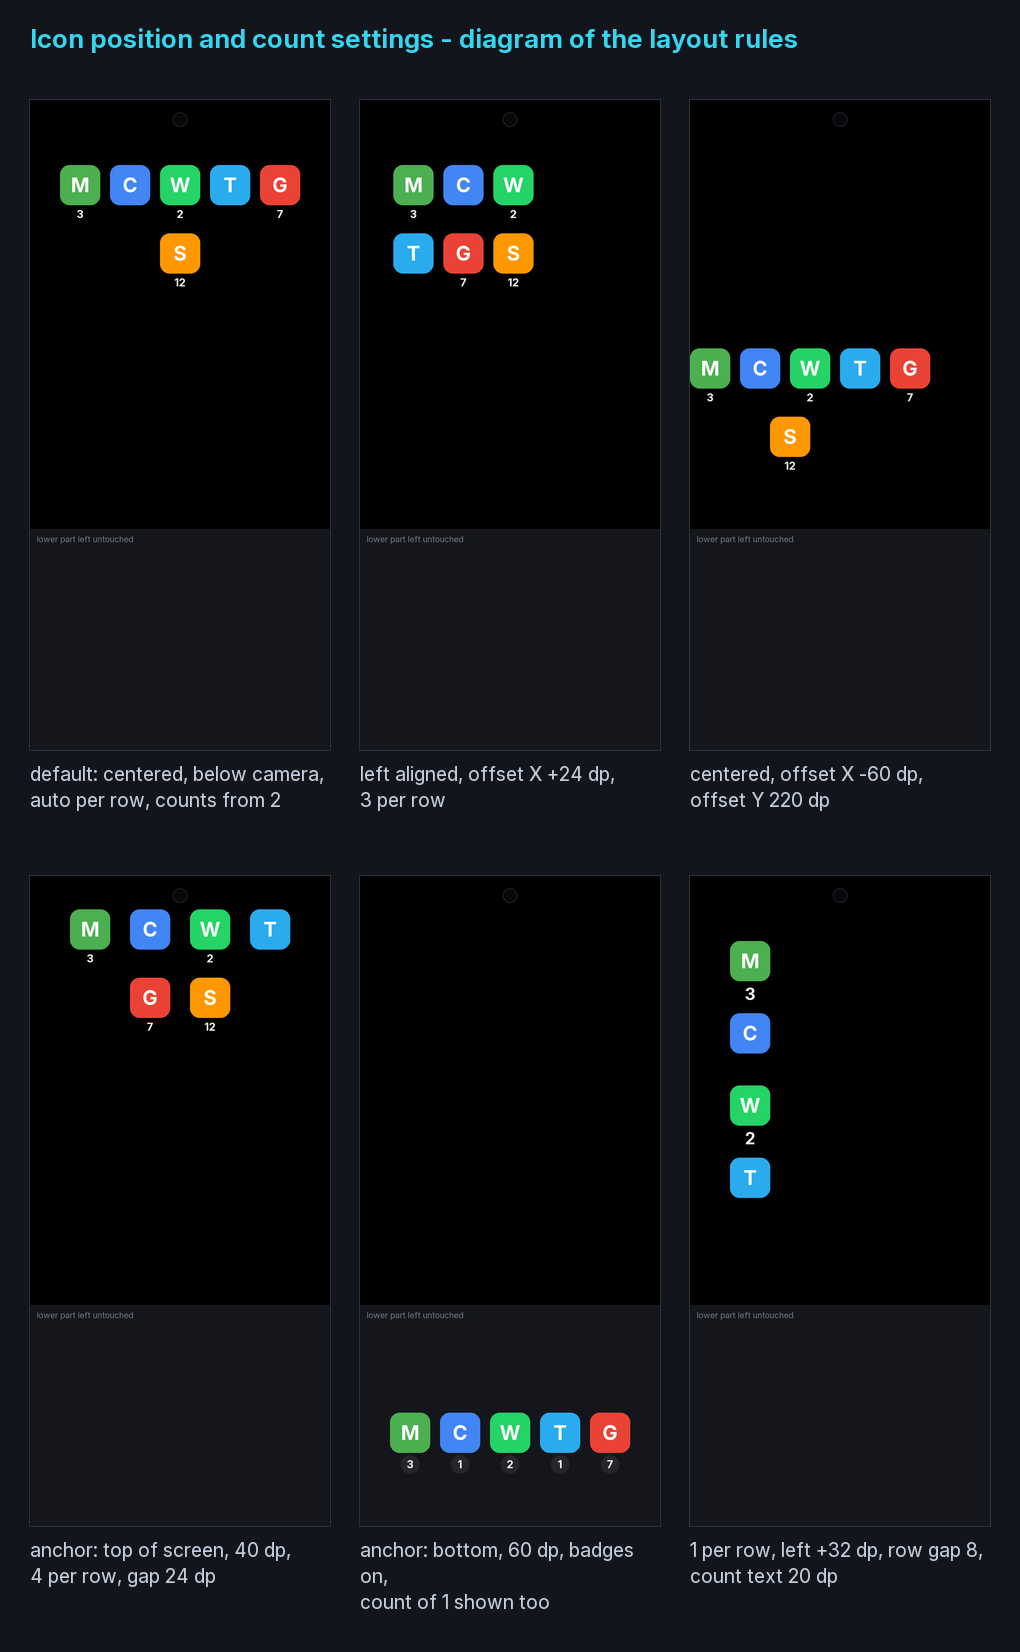
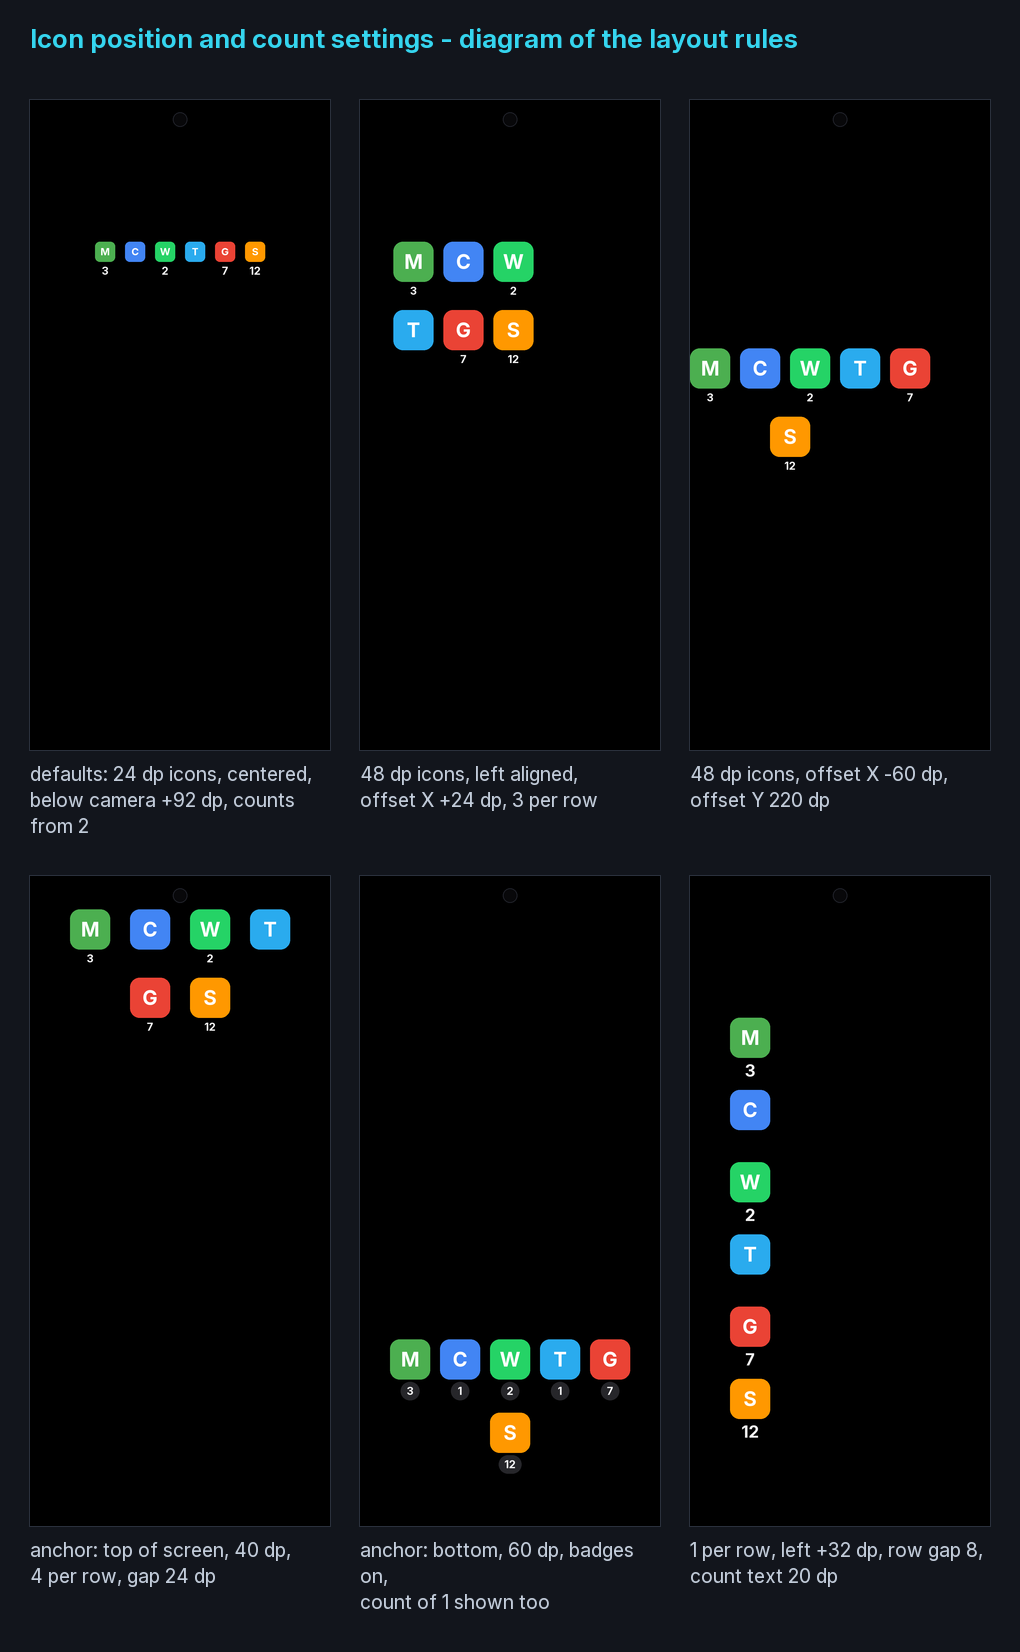
[AIassisted] restore the accessibility service after an update

diff --git a/app/src/main/java/com/zoffcc/applications/aod/Prefs.java b/app/src/main/java/com/zoffcc/applications/aod/Prefs.java
@@ -24,9 +24,10 @@ public final class Prefs
     public static final String RELIGHT_RELOCK = "relight_relock";   // light again after unlock + re-lock
     public static final String CANVAS_FALLBACK = "canvas_fallback"; // dim activity canvas, phones without AOD
     public static final String BLACKOUT_FULL = "blackout_full";     // also cover the bottom third
+    public static final String ACCESS_SEEN = "access_seen";         // service was enabled here once
 
     // ---- appearance -----------------------------------------------------
-    public static final String STYLE = "style";                     // ring | edge | dot
+    public static final String STYLE = "style";                     // ring | edge | dot | icons
     public static final String ANIM = "anim";                       // pulse | rotate | flash | steady
     public static final String ECO = "eco";                         // reduced frame rate
     public static final String COLOR = "color";
@@ -117,19 +118,32 @@ public final class Prefs
     }
 
     public static boolean enabled(Context c) { return get(c).getBoolean(ENABLED, true); }
+
+    /** True once the accessibility service has been seen enabled on this
+     *  device. Guards the automatic restore: a first install still asks. */
+    public static boolean accessSeen(Context c) { return get(c).getBoolean(ACCESS_SEEN, false); }
+    public static void markAccessSeen(Context c)
+    {
+        if (!accessSeen(c))
+        {
+            get(c).edit().putBoolean(ACCESS_SEEN, true).apply();
+            Dbg.log("restore", "accessibility seen enabled: automatic restore armed");
+        }
+    }
     public static boolean aodLight(Context c) { return get(c).getBoolean(AOD_LIGHT, true); }
     public static boolean screenOnLight(Context c) { return get(c).getBoolean(SCREEN_ON_LIGHT, true); }
-    public static boolean preview(Context c) { return get(c).getBoolean(PREVIEW, true); }
-    public static boolean doubleTapWake(Context c) { return get(c).getBoolean(DOUBLE_TAP_WAKE, true); }
+    public static boolean preview(Context c) { return get(c).getBoolean(PREVIEW, false); }
+    public static boolean doubleTapWake(Context c) { return get(c).getBoolean(DOUBLE_TAP_WAKE, false); }
     public static boolean clearOnUnlock(Context c) { return get(c).getBoolean(CLEAR_ON_UNLOCK, false); }
     public static boolean relightRelock(Context c) { return get(c).getBoolean(RELIGHT_RELOCK, true); }
     /** Opt-in only: the fallback canvas is an activity that turns the panel
      *  on, so it must never be used on a phone that has its own AOD. */
     public static boolean canvasFallback(Context c) { return get(c).getBoolean(CANVAS_FALLBACK, false); }
-    /** Off by default: the bottom third of the panel is left untouched. */
-    public static boolean blackoutFull(Context c) { return get(c).getBoolean(BLACKOUT_FULL, false); }
+    /** On by default: the whole panel is covered. Switching it off leaves
+     *  the bottom third exactly as the phone draws it. */
+    public static boolean blackoutFull(Context c) { return get(c).getBoolean(BLACKOUT_FULL, true); }
 
-    public static String style(Context c) { return get(c).getString(STYLE, STYLE_RING); }
+    public static String style(Context c) { return get(c).getString(STYLE, STYLE_ICONS); }
     public static String anim(Context c) { return get(c).getString(ANIM, ANIM_PULSE); }
     public static boolean eco(Context c) { return get(c).getBoolean(ECO, false); }
     public static int color(Context c) { return get(c).getInt(COLOR, DEFAULT_COLOR); }
@@ -139,7 +153,7 @@ public final class Prefs
     public static int dotX(Context c) { return get(c).getInt(DOT_X, 50); }
 
     public static String iconTint(Context c) { return get(c).getString(ICON_TINT, ICON_TINT_COLOR); }
-    public static int iconSizeDp(Context c) { return get(c).getInt(ICON_SIZE_DP, 48); }
+    public static int iconSizeDp(Context c) { return get(c).getInt(ICON_SIZE_DP, 24); }
     public static boolean iconPlate(Context c) { return get(c).getBoolean(ICON_PLATE, false); }
     public static boolean iconShift(Context c) { return get(c).getBoolean(ICON_SHIFT, true); }
 
@@ -147,7 +161,7 @@ public final class Prefs
     public static boolean iconLastRowCenter(Context c) { return get(c).getBoolean(ICON_LAST_ROW_CENTER, true); }
     public static int iconOffsetXDp(Context c) { return get(c).getInt(ICON_OFFSET_X_DP, 0); }
     public static String iconYAnchor(Context c) { return get(c).getString(ICON_Y_ANCHOR, ICON_Y_CAMERA); }
-    public static int iconOffsetYDp(Context c) { return get(c).getInt(ICON_OFFSET_Y_DP, 0); }
+    public static int iconOffsetYDp(Context c) { return get(c).getInt(ICON_OFFSET_Y_DP, 92); }
     public static int iconPerRow(Context c) { return get(c).getInt(ICON_PER_ROW, 0); }
     public static int iconGapDp(Context c) { return get(c).getInt(ICON_GAP_DP, 12); }
     public static int iconRowGapDp(Context c) { return get(c).getInt(ICON_ROW_GAP_DP, 12); }
@@ -183,7 +197,7 @@ public final class Prefs
                 .apply();
     }
 
-    public static int timeoutSec(Context c) { return get(c).getInt(TIMEOUT_SEC, 60); }
+    public static int timeoutSec(Context c) { return get(c).getInt(TIMEOUT_SEC, 290); }
     public static boolean interval(Context c) { return get(c).getBoolean(INTERVAL, false); }
     public static int intervalOnSec(Context c) { return get(c).getInt(INTERVAL_ON_SEC, 4); }
     public static int intervalOffSec(Context c) { return get(c).getInt(INTERVAL_OFF_SEC, 6); }
@@ -192,8 +206,8 @@ public final class Prefs
     public static boolean night(Context c) { return get(c).getBoolean(NIGHT, false); }
     public static int nightStart(Context c) { return get(c).getInt(NIGHT_START, 23 * 60); }
     public static int nightEnd(Context c) { return get(c).getInt(NIGHT_END, 7 * 60); }
-    public static boolean respectDnd(Context c) { return get(c).getBoolean(RESPECT_DND, true); }
-    public static boolean batteryLight(Context c) { return get(c).getBoolean(BATTERY_LIGHT, true); }
+    public static boolean respectDnd(Context c) { return get(c).getBoolean(RESPECT_DND, false); }
+    public static boolean batteryLight(Context c) { return get(c).getBoolean(BATTERY_LIGHT, false); }
     public static boolean ignorePersistent(Context c) { return get(c).getBoolean(IGNORE_PERSISTENT, true); }
 
     public static boolean filterSelected(Context c) { return "selected".equals(get(c).getString(FILTER_MODE, "all")); }

diff --git a/app/src/main/java/com/zoffcc/applications/aod/MainActivity.java b/app/src/main/java/com/zoffcc/applications/aod/MainActivity.java
@@ -198,6 +198,11 @@ public class MainActivity extends AppCompatActivity implements CustomListAdapter
 
     private void updateStatus()
     {
+        // After an update the service is often off: put it back silently when
+        // we are allowed to, then show the real state below.
+        if (isAccessibilityEnabled()) { Prefs.markAccessSeen(this); }
+        else { AccessRestore.restore(this, "appStart"); }
+
         boolean bat;
         try
         {
@@ -241,12 +246,12 @@ public class MainActivity extends AppCompatActivity implements CustomListAdapter
         bindSwitch(R.id.sw_enabled, Prefs.ENABLED, true);
         bindSwitch(R.id.sw_aod_light, Prefs.AOD_LIGHT, true);
         bindSwitch(R.id.sw_screen_on_light, Prefs.SCREEN_ON_LIGHT, true);
-        bindSwitch(R.id.sw_preview, Prefs.PREVIEW, true);
-        bindSwitch(R.id.sw_double_tap, Prefs.DOUBLE_TAP_WAKE, true);
+        bindSwitch(R.id.sw_preview, Prefs.PREVIEW, false);
+        bindSwitch(R.id.sw_double_tap, Prefs.DOUBLE_TAP_WAKE, false);
         bindSwitch(R.id.sw_clear_unlock, Prefs.CLEAR_ON_UNLOCK, false);
         bindSwitch(R.id.sw_relight_relock, Prefs.RELIGHT_RELOCK, true);
         bindSwitch(R.id.sw_canvas_fallback, Prefs.CANVAS_FALLBACK, false);
-        bindSwitch(R.id.sw_blackout_full, Prefs.BLACKOUT_FULL, false);
+        bindSwitch(R.id.sw_blackout_full, Prefs.BLACKOUT_FULL, true);
         bindSwitch(R.id.sw_icon_plate, Prefs.ICON_PLATE, false);
         bindSwitch(R.id.sw_icon_shift, Prefs.ICON_SHIFT, true);
         bindSwitch(R.id.sw_icon_center_h, Prefs.ICON_CENTER_H, true);
@@ -260,8 +265,8 @@ public class MainActivity extends AppCompatActivity implements CustomListAdapter
         bindSwitch(R.id.sw_eco, Prefs.ECO, false);
         bindSwitch(R.id.sw_interval, Prefs.INTERVAL, false);
         bindSwitch(R.id.sw_night, Prefs.NIGHT, false);
-        bindSwitch(R.id.sw_dnd, Prefs.RESPECT_DND, true);
-        bindSwitch(R.id.sw_battery_light, Prefs.BATTERY_LIGHT, true);
+        bindSwitch(R.id.sw_dnd, Prefs.RESPECT_DND, false);
+        bindSwitch(R.id.sw_battery_light, Prefs.BATTERY_LIGHT, false);
         bindSwitch(R.id.sw_ignore_persistent, Prefs.IGNORE_PERSISTENT, true);
     }
 
@@ -273,7 +278,7 @@ public class MainActivity extends AppCompatActivity implements CustomListAdapter
         sa.setDropDownViewResource(R.layout.item_spinner_dropdown);
         style.setAdapter(sa);
         String[] styleVals = {Prefs.STYLE_RING, Prefs.STYLE_EDGE, Prefs.STYLE_DOT, Prefs.STYLE_ICONS};
-        style.setSelection(indexOf(styleVals, prefs.getString(Prefs.STYLE, Prefs.STYLE_RING)));
+        style.setSelection(indexOf(styleVals, prefs.getString(Prefs.STYLE, Prefs.STYLE_ICONS)));
         style.setOnItemSelectedListener(new SimpleItemSelected()
         {
             @Override
@@ -464,7 +469,7 @@ public class MainActivity extends AppCompatActivity implements CustomListAdapter
     private void bindSliders()
     {
         bindSlider(R.id.sb_timeout, R.id.lbl_timeout,
-                prefs.getInt(Prefs.TIMEOUT_SEC, 60) - 10, R.string.lbl_timeout,
+                prefs.getInt(Prefs.TIMEOUT_SEC, 290) - 10, R.string.lbl_timeout,
                 p -> prefs.edit().putInt(Prefs.TIMEOUT_SEC, p + 10).apply());
         bindSlider(R.id.sb_brightness, R.id.lbl_brightness,
                 prefs.getInt(Prefs.BRIGHTNESS, 35) - 5, R.string.lbl_brightness,
@@ -473,13 +478,13 @@ public class MainActivity extends AppCompatActivity implements CustomListAdapter
                 prefs.getInt(Prefs.STROKE_DP, 5) - 2, R.string.lbl_stroke,
                 p -> prefs.edit().putInt(Prefs.STROKE_DP, p + 2).apply());
         bindSlider(R.id.sb_icon_size, R.id.lbl_icon_size,
-                prefs.getInt(Prefs.ICON_SIZE_DP, 48) - 24, R.string.lbl_icon_size,
+                prefs.getInt(Prefs.ICON_SIZE_DP, 24) - 24, R.string.lbl_icon_size,
                 p -> prefs.edit().putInt(Prefs.ICON_SIZE_DP, p + 24).apply());
         bindSlider(R.id.sb_icon_offset_x, R.id.lbl_icon_offset_x,
                 prefs.getInt(Prefs.ICON_OFFSET_X_DP, 0) + 200, R.string.lbl_icon_offset_x, -200,
                 p -> prefs.edit().putInt(Prefs.ICON_OFFSET_X_DP, p - 200).apply());
         bindSlider(R.id.sb_icon_offset_y, R.id.lbl_icon_offset_y,
-                prefs.getInt(Prefs.ICON_OFFSET_Y_DP, 0), R.string.lbl_icon_offset_y,
+                prefs.getInt(Prefs.ICON_OFFSET_Y_DP, 92), R.string.lbl_icon_offset_y,
                 p -> prefs.edit().putInt(Prefs.ICON_OFFSET_Y_DP, p).apply());
         bindSlider(R.id.sb_icon_per_row, R.id.lbl_icon_per_row,
                 prefs.getInt(Prefs.ICON_PER_ROW, 0), R.string.lbl_icon_per_row,

diff --git a/app/src/main/java/com/zoffcc/applications/aod/AccessRestore.java b/app/src/main/java/com/zoffcc/applications/aod/AccessRestore.java
@@ -1,0 +1,88 @@
+package com.zoffcc.applications.aod;
+
+import android.content.ComponentName;
+import android.content.Context;
+import android.content.pm.PackageManager;
+import android.provider.Settings;
+import android.text.TextUtils;
+
+/**
+ * Puts the accessibility service back after an app update.
+ *
+ * Replacing a package makes the system re-evaluate its accessibility
+ * bindings, and on many builds the service ends up switched off. An app may
+ * not grant itself accessibility — unless the user handed it
+ * WRITE_SECURE_SETTINGS through adb, which is a deliberate, one-time act and
+ * survives updates (only an uninstall clears it).
+ *
+ * This never runs without that permission, never runs while the in-app master
+ * switch is off, and never runs on a device where the service has not been
+ * enabled before: a first install still asks the user, and somebody who
+ * switched the app off is left alone.
+ */
+public final class AccessRestore
+{
+    private AccessRestore() {}
+
+    private static final String KEY_SERVICES = "enabled_accessibility_services";
+    private static final String KEY_ENABLED = "accessibility_enabled";
+
+    public static boolean canWrite(Context c)
+    {
+        try
+        {
+            return c.checkSelfPermission("android.permission.WRITE_SECURE_SETTINGS")
+                    == PackageManager.PERMISSION_GRANTED;
+        }
+        catch (Throwable t) { return false; }
+    }
+
+    public static boolean isEnabled(Context c)
+    {
+        try
+        {
+            String flat = Settings.Secure.getString(c.getContentResolver(), KEY_SERVICES);
+            return flat != null && flat.contains(component(c));
+        }
+        catch (Throwable t) { return false; }
+    }
+
+    private static String component(Context c)
+    {
+        return new ComponentName(c.getPackageName(), overlayservice.class.getName())
+                .flattenToString();
+    }
+
+    /**
+     * @param why short reason for the debug log ("update", "boot", "appStart")
+     * @return true when the service was switched back on by this call
+     */
+    public static boolean restore(Context c, String why)
+    {
+        if (!Prefs.enabled(c)) { return false; }          // user switched the app off
+        if (!Prefs.accessSeen(c)) { return false; }       // never enabled here: ask, don't grab
+        if (!canWrite(c)) { return false; }               // no adb grant: nothing we may do
+        if (isEnabled(c)) { return false; }
+
+        String cn = component(c);
+        try
+        {
+            String current = Settings.Secure.getString(c.getContentResolver(), KEY_SERVICES);
+            if (current == null || "null".equals(current)) { current = ""; }
+            String updated;
+            if (TextUtils.isEmpty(current)) { updated = cn; }
+            else if (current.contains(cn)) { updated = current; }
+            else { updated = current + ":" + cn; }        // keep other services intact
+
+            Settings.Secure.putString(c.getContentResolver(), KEY_SERVICES, updated);
+            Settings.Secure.putInt(c.getContentResolver(), KEY_ENABLED, 1);
+            Dbg.log("restore", "accessibility re-enabled after " + why + " -> " + updated);
+            return true;
+        }
+        catch (Throwable t)
+        {
+            Dbg.log("restore", "failed after " + why + ": " + t);
+            return false;
+        }
+    }
+}

diff --git a/app/src/main/java/com/zoffcc/applications/aod/GlowRendererView.java b/app/src/main/java/com/zoffcc/applications/aod/GlowRendererView.java
@@ -41,11 +41,12 @@ import java.util.List;
  */
 public class GlowRendererView extends View
 {
-    /** Default: black out only this fraction of the display height (top),
-     *  leaving the bottom third untouched. The user can extend it to the
-     *  whole panel with {@link #setBlackoutFull(boolean)}. */
-    private static final float BLACKOUT_DEFAULT_FRACTION = 0.66f;
-    private float blackoutFraction = BLACKOUT_DEFAULT_FRACTION;
+    /** Reduced extent, used when "black out the whole display" is switched
+     *  off: only this fraction of the display height (top) is covered and
+     *  the bottom third is left untouched. The service always applies the
+     *  setting through {@link #setBlackoutFull(boolean)}. */
+    private static final float BLACKOUT_PARTIAL_FRACTION = 0.66f;
+    private float blackoutFraction = 1f;
     private final Paint paint = new Paint(Paint.ANTI_ALIAS_FLAG);
     private final Paint blackPaint = new Paint();
     private final Path edgePath = new Path();
@@ -183,7 +184,7 @@ public class GlowRendererView extends View
      *  changes what is visible. */
     public void setBlackoutFull(boolean full)
     {
-        float f = full ? 1f : BLACKOUT_DEFAULT_FRACTION;
+        float f = full ? 1f : BLACKOUT_PARTIAL_FRACTION;
         if (blackoutFraction != f)
         {
             blackoutFraction = f;

diff --git a/app/src/main/java/com/zoffcc/applications/aod/autostart_service.java b/app/src/main/java/com/zoffcc/applications/aod/autostart_service.java
@@ -27,6 +27,11 @@ public class autostart_service extends BroadcastReceiver
         if (Intent.ACTION_BOOT_COMPLETED.equals(action) ||
             Intent.ACTION_MY_PACKAGE_REPLACED.equals(action))
         {
+            // An update can leave the accessibility service switched off. Put
+            // it back, but only if the user granted WRITE_SECURE_SETTINGS via
+            // adb and the app is switched on (see AccessRestore).
+            AccessRestore.restore(context,
+                    Intent.ACTION_BOOT_COMPLETED.equals(action) ? "boot" : "update");
             notificationobserver.requestRebind(context);
         }
 

diff --git a/app/src/main/java/com/zoffcc/applications/aod/overlayservice.java b/app/src/main/java/com/zoffcc/applications/aod/overlayservice.java
@@ -123,6 +123,7 @@ public class overlayservice extends AccessibilityService
         super.onServiceConnected();
         Log.i(TAG, "onServiceConnected");
         Dbg.log("overlay", "onServiceConnected");
+        Prefs.markAccessSeen(this);
         h.postDelayed(this::bootstrap, 600L);
     }
 

diff --git a/README.md b/README.md
@@ -32,14 +32,15 @@ The app combines three standard Android mechanisms:
 
 3. **A black always-on field, drawn by the same overlay**
    While the display is off, the overlay paints an opaque black rectangle
-   over the top two thirds of the panel, which hides the system AOD clock
-   and widgets. On OLED those pixels are effectively off, so an idle
-   screen is a static, near-zero-cost black field: no animation, no wake
+   over the whole panel, which hides the system AOD clock and widgets.
+   On OLED those pixels are effectively off, so an idle screen is a
+   static, near-zero-cost black field: no animation, no wake
    locks, and **nothing at all is drawn when there is no notification**.
    The light, the app icons and the optional notification text are painted
    into that field, so nothing ever has to wake the panel — pressing the
-   power button turns the display off and it stays off. The bottom third
-   of the panel is deliberately left untouched.
+   power button turns the display off and it stays off. Covering only the
+   top two thirds, leaving the bottom third as the phone draws it, is an
+   opt-out setting.
 
    For phones that show *nothing* when the display is off there is an
    opt-in fallback (`AodScreenActivity`, off by default): a pure-black,
@@ -127,6 +128,28 @@ shows the counters taken from group summaries.
 5. Optional one-tap setup via ADB:
    `adb shell pm grant com.zoffcc.applications.aod android.permission.WRITE_SECURE_SETTINGS`
    then use the "Auto-enable accessibility" button that appears.
+
+### Accessibility after an app update
+
+Replacing the package makes the system re-evaluate its accessibility
+bindings, and on many builds the service ends up switched off — an app is not
+allowed to grant itself accessibility. With the ADB grant above (which
+survives updates; only an uninstall clears it) the app puts the service back
+by itself: after an update (`MY_PACKAGE_REPLACED`), on boot, and when the
+settings screen is opened. It appends its own component to
+`enabled_accessibility_services`, so other accessibility services are left
+alone, and it only ever acts when
+
+- `WRITE_SECURE_SETTINGS` was granted, **and**
+- the in-app master switch is on, **and**
+- the service has been enabled on this device before (a first install still
+  asks the user).
+
+`adb logcat -s AODDBG` shows `restore: accessibility re-enabled after update`.
+
+On Android 13+ a sideloaded app may also have its accessibility toggle blocked
+by *restricted settings*: allow it once under *App info → ⋮ → Allow restricted
+settings*, or sideload with `adb install -r -i com.android.vending …`.
 
 Test without a second device:
 
